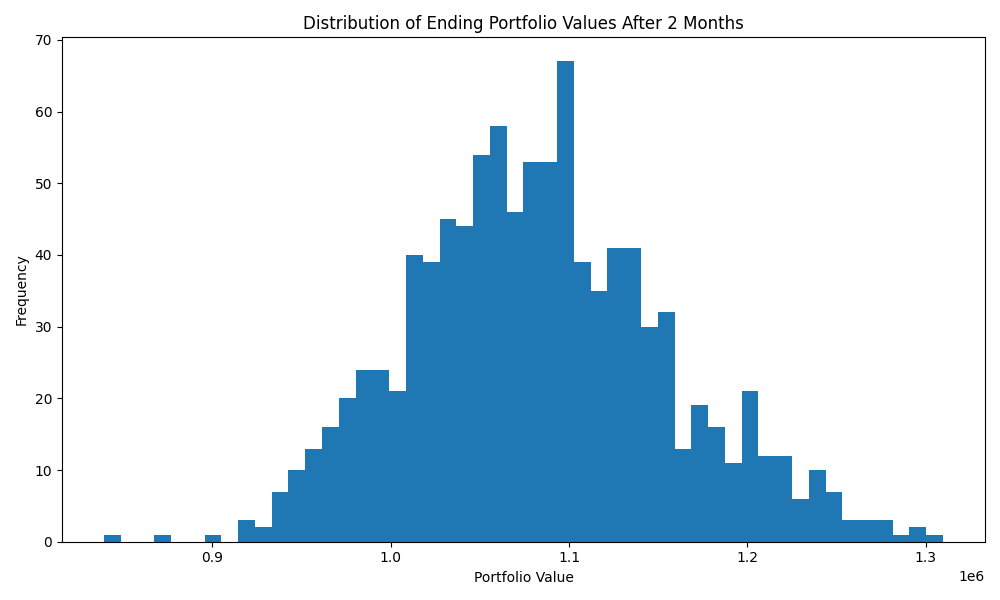
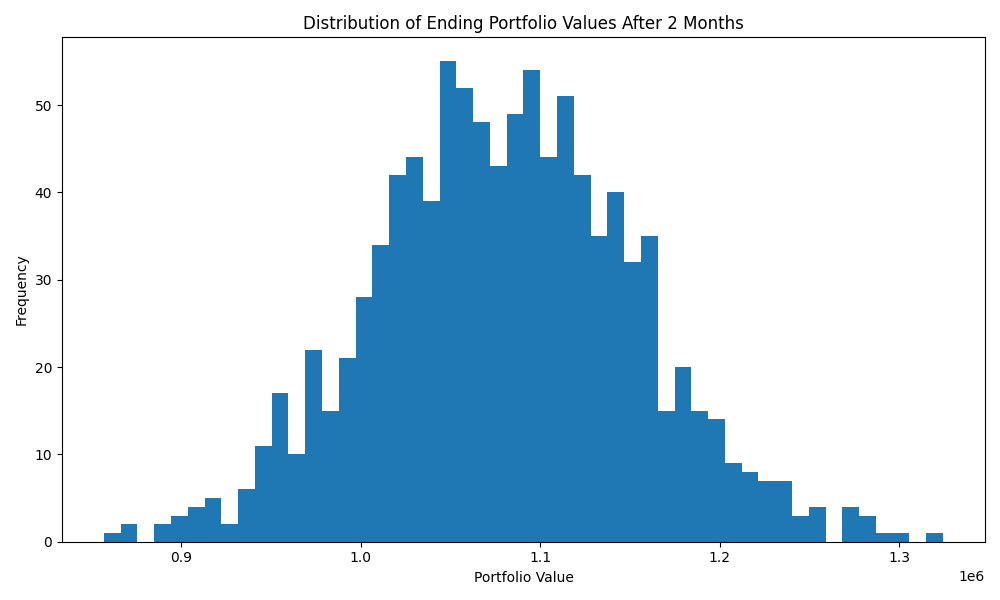
newest changes

diff --git a/portfolio.py b/portfolio.py
@@ -3,7 +3,6 @@ import numpy as np
 import yfinance as yf
 import matplotlib.pyplot as plt
 
-# Define your updated portfolio
 portfolio = {
     'AAPL': {'shares': 447},
     'ACN': {'shares': 72},
@@ -13,25 +12,20 @@ portfolio = {
     'LULU': {'shares': 375},
     'MSFT': {'shares': 234},
     'NVDA': {'shares': 1351},
-    'VSPGX': {'shares': 131},  # Vanguard Fund
+    'VSPGX': {'shares': 131},
     'WMT': {'shares': 1246},
 }
 
 symbols = list(portfolio.keys())
-
-# Download historical price data for the last 2 months
-start_date = '2024-08-17'  # Adjust the start date to 2 months before the current date
+start_date = '2024-08-17'
 end_date = '2024-10-17'
 data = yf.download(symbols, start=start_date, end=end_date)['Adj Close']
-
-# Handle missing data by forward filling
 data = data.ffill().dropna()
 
 for symbol in symbols:
     data[symbol] = data[symbol] * portfolio[symbol]['shares']
 
 portfolio_value = data.sum(axis=1)
-
 benchmark = yf.download('SPY', start=start_date, end=end_date)['Adj Close']
 benchmark = benchmark.ffill().dropna()
 
@@ -40,7 +34,6 @@ benchmark_returns = benchmark.pct_change().dropna()
 
 portfolio_returns.index = portfolio_returns.index.tz_localize(None)
 benchmark_returns.index = benchmark_returns.index.tz_localize(None)
-
 benchmark_returns = benchmark_returns.reindex(portfolio_returns.index, method='ffill')
 
 portfolio_cum_returns = (1 + portfolio_returns).cumprod() - 1
@@ -48,26 +41,27 @@ benchmark_cum_returns = (1 + benchmark_returns).cumprod() - 1
 
 plt.figure(figsize=(12, 6))
 plt.plot(portfolio_cum_returns.index, portfolio_cum_returns.values, label='Our Portfolio')
-plt.plot(benchmark_cum_returns.index, benchmark_cum_returns.values, label='S&P 500', linestyle='--')  # S&P 500 line
+plt.plot(benchmark_cum_returns.index, benchmark_cum_returns.values, label='S&P 500', linestyle='--')
 plt.title('Cumulative Returns Over the Last 2 Months')
 plt.xlabel('Date')
 plt.ylabel('Cumulative Return')
 plt.legend()
 plt.grid(True)
 plt.tight_layout()
-plt.savefig('cumulative_returns.png')  # Save the plot as a PNG file
-plt.close()  # Close the figure to free up memory
+plt.savefig('cumulative_returns.png')
+plt.close()
 
 if not portfolio_cum_returns.empty:
-    # Calculate period performance metrics (not annualized)
-    period_return = portfolio_cum_returns.iloc[-1]  # Use iloc to fix the warning
-    period_volatility = portfolio_returns.std()
+    period_return = portfolio_cum_returns.iloc[-1]
+    
+    # Calculate period volatility by scaling daily volatility to the entire period (2 months)
+    period_volatility = portfolio_returns.std() * np.sqrt(days_in_period)
 
     risk_free_rate_annual = 0.05
     days_in_period = len(portfolio_returns)
     risk_free_rate_period = risk_free_rate_annual * (days_in_period / 252)
 
-    portfolio_sharpe_ratio = (period_return - risk_free_rate_period) / (period_volatility * np.sqrt(days_in_period))
+    portfolio_sharpe_ratio = (period_return - risk_free_rate_period) / period_volatility
 
     print('Portfolio Return over Period: {:.2%}'.format(period_return))
     print('Portfolio Volatility over Period: {:.2%}'.format(period_volatility))
@@ -75,17 +69,15 @@ if not portfolio_cum_returns.empty:
 else:
     print("No data available for the selected period. Check if stock symbols are correct.")
 
+
+
 num_simulations = 1000
-num_days = days_in_period  # Simulate for the same number of days as your period
-
-# Log returns of the portfolio
+num_days = days_in_period
 log_returns = np.log(1 + portfolio_returns)
-
 u = log_returns.mean()
 var = log_returns.var()
 drift = u - (0.5 * var)
 stdev = log_returns.std()
-
 start_value = portfolio_value.iloc[-1]
 
 simulation_results = np.zeros((num_days, num_simulations))
@@ -103,24 +95,16 @@ p50 = np.percentile(simulation_results, 50, axis=1)
 p90 = np.percentile(simulation_results, 90, axis=1) 
 
 plt.figure(figsize=(12, 6))
-
 plt.plot(simulation_results, color="lightgray", alpha=0.05)  
-
 plt.plot(p50, color="blue", label="Median Outcome (50th Percentile)", linewidth=2)  
-
 plt.fill_between(range(num_days), p10, p90, color="lightblue", alpha=0.3, label="10th-90th Percentile")
-
 plt.title('Monte Carlo Simulation of Portfolio Future Value (Next 2 Months)')
 plt.xlabel('Days')
 plt.ylabel('Portfolio Value')
-
 plt.legend(loc="upper left")
-
 plt.tight_layout()
 plt.savefig('monte_carlo_simulation_with_confidence.png')  
 plt.close()
-
-
 
 ending_values = simulation_results[-1, :]
 plt.figure(figsize=(10, 6))
